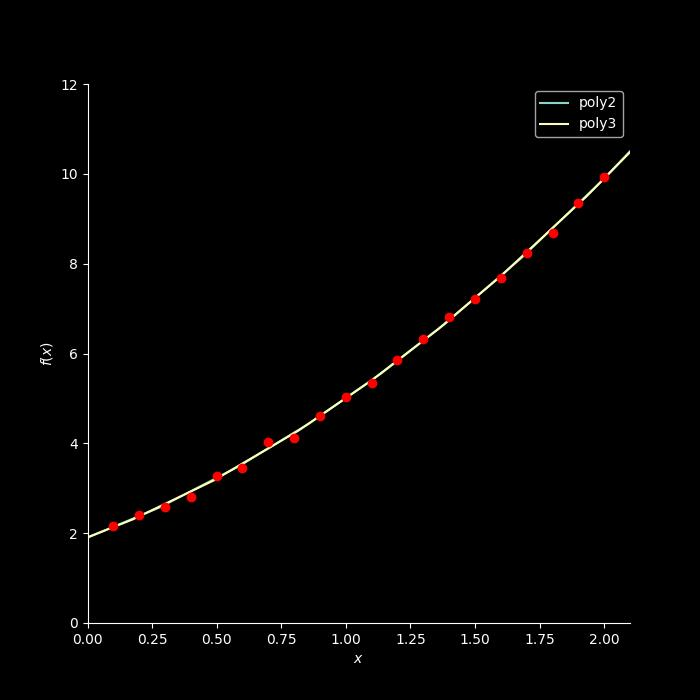
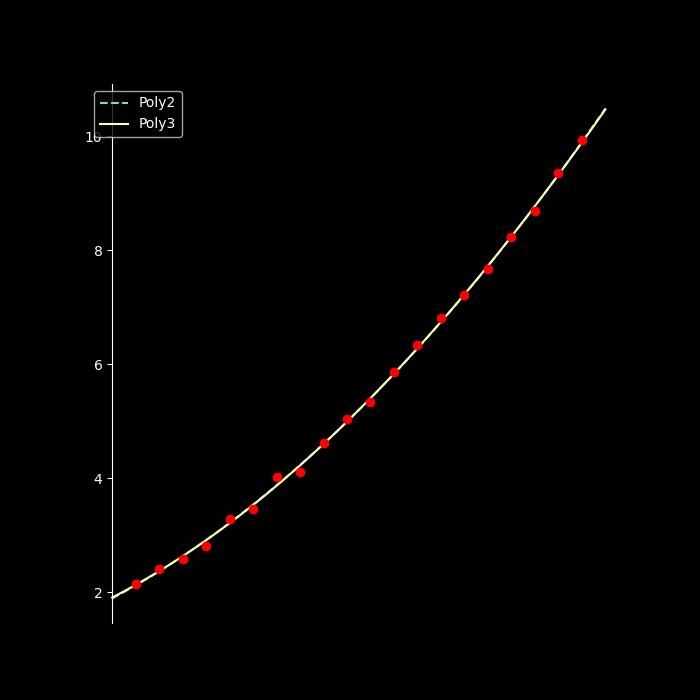
Change mls graphics plot

diff --git a/mls/mls_algorythm.py b/mls/mls_algorythm.py
@@ -9,9 +9,9 @@
     main()
 """
 import sympy as sm
+from sympy import lambdify
 import numpy as np
 import matplotlib.pyplot as plt
-from sympy.plotting import plot
 
 
 def coefs_calculate(x_data: list, y_data: list, degree: int) -> list:
@@ -103,6 +103,31 @@ def std_dev(x_data: list, y_data: list, expr: sm.Expr) -> float:
     return result
 
 
+# pylint: disable=too-many-instance-attributes
+def plot(x_val: np.ndarray, np_poly2, np_poly3, x_data: list, y_data: list):
+    """
+    Отрисовка графика двух полиномов и точек
+    :param x_val: диапазон аргумента
+    :param np_poly2: функция первого полинома
+    :param np_poly3: функция второго полинома
+    :param x_data: координаты по оси абсцисс исходных точек
+    :param y_data: координаты по оси ординат исходных точек
+    """
+    fig = plt.figure(figsize=(7, 7))
+    ax = fig.add_subplot(1, 1, 1)
+
+    ax.spines['left'].set_position(("data", 0.0))
+    ax.spines['bottom'].set_position(("data", 0.0))
+    ax.spines['right'].set_color('none')
+    ax.spines['top'].set_color('none')
+
+    ax.plot(x_val, np_poly2(x_val), '--', label="Poly2")
+    ax.plot(x_val, np_poly3(x_val), label="Poly3")
+    ax.plot(x_data, y_data, "ro")
+
+    ax.legend()
+
+
 def main():
     """Считывание исходных данных, построение полиномов 2 и 3 степени, отрисовка графика
     и выбор лучшего полинома исходя из их стандартных отклонений
@@ -115,26 +140,24 @@ def main():
     print(poly2, poly3, sep="\n")
     print("2-degree", std_dev(x_data, y_data, poly2))
     print("3-degree", std_dev(x_data, y_data, poly3))
+
+    np_poly2 = lambdify(tuple(poly2.atoms(sm.Symbol)), poly2, modules=['numpy'])
+    np_poly3 = lambdify(tuple(poly3.atoms(sm.Symbol)), poly3, modules=['numpy'])
+
+    x_val = np.linspace(-10, 10, 200)
+    plot(x_val, np_poly2, np_poly3, x_data, y_data)
+    plt.savefig("../graphics/mls_all.jpg")
     plt.style.use('dark_background')
-    palette = plot(poly2, show=False, legend=True,
-                   markers=[{'args': [x_data, y_data, "ro"]}],
-                   size=(7, 7), label="poly2")
-    palette2 = plot(poly3, show=False, legend=True, label="poly3", size=(7, 7))
-    palette.append(palette2[0])
-    palette.show()
+    plot(x_val, np_poly2, np_poly3, x_data, y_data)
+    plt.savefig("../graphics/mls_all_dark.jpg")
 
-    palette.save("../graphics/mls_all_dark.jpg")
-
-    palette = plot(poly2, show=False, legend=True,
-                   markers=[{'args': [x_data, y_data, "ro"]}],
-                   size=(7, 7), label="poly2",
-                   xlim=(min(x_data)-0.1, max(x_data)+0.1),
-                   ylim=(0, 12))
-    palette2 = plot(poly3, show=False, legend=True, label="poly3", size=(7, 7))
-    palette.append(palette2[0])
-    palette.show()
-
-    palette.save("../graphics/mls_points_dark.jpg")
+    x_val = np.linspace(0,2.1, 100)
+    plt.style.use('default')
+    plot(x_val, np_poly2, np_poly3, x_data, y_data)
+    plt.savefig("../graphics/mls_points.jpg")
+    plt.style.use('dark_background')
+    plot(x_val, np_poly2, np_poly3, x_data, y_data)
+    plt.savefig("../graphics/mls_points_dark.jpg")
 
 
 if __name__ == "__main__":

diff --git a/regression/regression_algorythm.py b/regression/regression_algorythm.py
@@ -11,6 +11,8 @@ import matplotlib.pyplot as plt
 import mls.mls_algorythm as mls
 
 
+
+
 def eps1_calculate(y_list: list) -> float:
     """Функция вычисления величины отклонения значений от их среднего
 
@@ -33,6 +35,7 @@ def main():
         degree += 1
     print(f"Poly: {poly}")
     print(f"eps1: {eps1}, eps2: {eps2}, difference: {abs(eps2-eps1)}")
+
     plt.style.use('dark_background')
     palette = plot(poly, show=True, legend=False,
                    size=(7, 7), label=f"poly{degree}",
